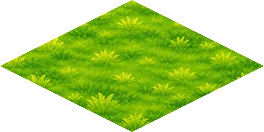
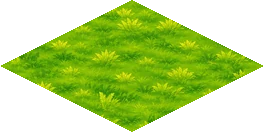
Кусты стоят по центру клетки, трава без швов
Кусты: опора считалась от самой широкой строки основания, а у новых кустов под газоном
земляной блок, и куст стоял ниже своей клетки примерно на 7 единиц. Теперь опора — центр
ромба, нижний угол которого — низ блока (18 картинок кустов, сами картинки не менялись).

Трава: tools/grass_tiles.py собирает из tile_grass.png и tile_grass_flowers.png четыре
бесшовные плитки с общей каймой у краёв (разрез по месту наименьшей разницы), цветы
наложены поверх травы основного цвета. Плитки травы больше не отзеркаливаются.

Claude-Session: https://claude.ai/code/session_011VhYmBhGwWRgUfHhRXyNhw

diff --git a/src/game/artSprites.js b/src/game/artSprites.js
@@ -103,8 +103,9 @@ export async function loadArt(onProgress) {
     },
     house: [null, A.house_1, A.house_2, A.house_3, A.house_4, A.house_5],
     well: [A.well_broken, A.well_fixed],
-    // варианты травы 0,1 — простая (55% и 25%), 2,3 — с цветами (по 10%)
-    grass: [A.tile_grass, flipped(A.tile_grass), A.tile_grass_flowers, flipped(A.tile_grass_flowers)],
+    // варианты травы 0,1 — простая (55% и 25%), 2,3 — с цветами (по 10%). Не отзеркаливать: плитки
+    // бесшовные (tools/grass_tiles.py), у зеркальной край другой — будет шов
+    grass: [A.tile_grass, A.tile_grass_2, A.tile_grass_flowers, A.tile_grass_flowers_2],
     path: [A.tile_path, flipped(A.tile_path)],
     // объёмные грядки: [сухая, политая]; рисуются поверх травы
     bed: [A.bed_dry, A.bed_wet],

diff --git a/tools/grass_tiles.py b/tools/grass_tiles.py
@@ -1,0 +1,172 @@
+# Бесшовные плитки травы из одной картинки-ромба (tile_grass.png) + цветы с tile_grass_flowers.png.
+#
+# Ромб клетки раскладываем в квадрат в осях клеток: u — вправо-вниз (соседняя клетка по gx),
+# v — влево-вниз (по gy). Сетка клеток в этих осях — обычная квадратная решётка, поэтому
+# «бесшовно» значит: квадрат периодичен по u и v. Периодичным его делаем, как бесшовные текстуры:
+# у края берём ту же картинку, сдвинутую на полквадрата, а границу между ними ведём по месту,
+# где картинки меньше всего отличаются (кривой разрез, не прямая линия), — так шва не видно.
+#
+# Все варианты (простая трава 2 шт., с цветами 2 шт.) получают одинаковую кайму у краёв и разную
+# середину, поэтому любые две плитки рядом стыкуются. Отзеркаливать плитки в игре нельзя: кайма
+# зеркальной плитки другая (поэтому второй вариант — отдельная картинка).
+import numpy as np
+from PIL import Image
+from scipy import ndimage
+
+N = 512        # сторона квадрата в осях клеток
+BAND = 0.22    # ширина полосы у края, в которой ищем разрез (доля стороны)
+SS = 4         # плитку считаем в SS раз крупнее и уменьшаем (сглаживание)
+
+
+def to_square(a, n=N):
+    """Ромб на всю картинку a (H×W×C) → квадрат n×n×C, индексы [u, v]."""
+    H, W = a.shape[:2]
+    t = (np.arange(n) + 0.5) / n
+    u, v = np.meshgrid(t, t, indexing='ij')
+    x = (0.5 + (u - v) / 2) * W - 0.5
+    y = (u + v) / 2 * H - 0.5
+    return np.stack([ndimage.map_coordinates(a[..., c], [y, x], order=3, mode='nearest')
+                     for c in range(a.shape[2])], -1)
+
+
+def to_diamond(sq, tw, th, cw, ch, ox, oy):
+    """Квадрат (периодичный) → картинка плитки tw×th пикселей. Клетка — ромб cw×ch пикселей,
+    её левый верхний угол описанного прямоугольника — (ox, oy) в пикселях картинки."""
+    n = sq.shape[0]
+    py, px = np.mgrid[0:th, 0:tw].astype(np.float64)
+    xc = (px + 0.5 - ox) / cw * 2 - 1    # -1..1 поперёк ромба
+    yc = (py + 0.5 - oy) / ch * 2        # 0..2 сверху вниз
+    u = (xc + yc) / 2
+    v = (yc - xc) / 2
+    return np.stack([ndimage.map_coordinates(sq[..., c], [u * n - 0.5, v * n - 0.5], order=3, mode='grid-wrap')
+                     for c in range(sq.shape[2])], -1)
+
+
+def _cut(err, lo, hi, fixed=None):
+    """Разрез у края u=0: для каждой строки v — граница c[v] в [lo, hi), соседние отличаются не
+    больше чем на 1, сумма err вдоль разреза минимальна. fixed — граница в первой и последней
+    строке (чтобы разрез сам был периодичен по v)."""
+    n = err.shape[1]
+    e = err[lo:hi].T  # [v, c]
+    k = hi - lo
+    cost = np.full((n, k), np.inf); back = np.zeros((n, k), np.int64)
+    if fixed is None: cost[0] = e[0]
+    else: cost[0, fixed - lo] = e[0, fixed - lo]
+    for j in range(1, n):
+        prev = cost[j - 1]
+        cand = np.stack([prev, np.r_[np.inf, prev[:-1]], np.r_[prev[1:], np.inf]])  # c, c-1, c+1
+        arg = cand.argmin(0)
+        cost[j] = cand[arg, np.arange(k)] + e[j]
+        back[j] = np.arange(k) + np.array([0, -1, 1])[arg]
+    c = np.empty(n, np.int64)
+    c[-1] = (fixed - lo) if fixed is not None else cost[-1].argmin()
+    for j in range(n - 1, 0, -1): c[j - 1] = back[j, c[j]]
+    return c + lo
+
+
+def _err(a, b):
+    d = (a - b) ** 2
+    return ndimage.uniform_filter(d.sum(-1), 3)
+
+
+def _outer_mask(base, inner, lo, hi, periodic):
+    """Маска «берём base» у всех четырёх краёв квадрата: по кривому разрезу в полосе [lo, hi)."""
+    n = base.shape[0]
+    m = np.zeros((n, n), bool)
+    fixed = (lo + hi) // 2 if periodic else None
+    idx = np.arange(n)
+    for flip_u in (False, True):
+        for tr in (False, True):
+            b, i = base, inner
+            if tr: b, i = b.transpose(1, 0, 2), i.transpose(1, 0, 2)
+            if flip_u: b, i = b[::-1], i[::-1]
+            c = _cut(_err(b, i), lo, hi, fixed)
+            mm = idx[:, None] < c[None, :]
+            if flip_u: mm = mm[::-1]
+            if tr: mm = mm.T
+            m |= mm
+    return m
+
+
+def _blend(outer, inner, m, sigma=1.5, wrap=True):
+    w = ndimage.gaussian_filter(m.astype(np.float64), sigma, mode='wrap' if wrap else 'nearest')[..., None]
+    return outer * w + inner * (1 - w)
+
+
+def make_periodic(t):
+    """Квадрат → периодичный по u и v (кайма — та же картинка, сдвинутая на полквадрата)."""
+    n = t.shape[0]
+    lo, hi = max(2, n // 40), int(n * BAND)
+    p, idx = t, np.arange(n)
+    for axis in (0, 1):
+        r = np.roll(p, n // 2, axis)
+        a, b = (p, r) if axis == 0 else (p.transpose(1, 0, 2), r.transpose(1, 0, 2))
+        c0 = _cut(_err(a, b), lo, hi, (lo + hi) // 2)
+        c1 = _cut(_err(a[::-1], b[::-1]), lo, hi, (lo + hi) // 2)
+        mm = (idx[:, None] < c0[None, :]) | (idx[::-1][:, None] < c1[None, :])
+        m = mm if axis == 0 else mm.T
+        p = _blend(r, p, m)
+    return p
+
+
+def flatten(t, sigma):
+    """Убрать крупные перепады яркости (свет на всю плитку): иначе на поле видна сетка."""
+    low = np.stack([ndimage.gaussian_filter(t[..., c], sigma, mode='reflect') for c in range(3)], -1)
+    return t - low + low.reshape(-1, 3).mean(0)
+
+
+def match_colors(src, ref, mask_src=None):
+    """Средний цвет и разброс src → как у ref (по каналам)."""
+    s = src[mask_src] if mask_src is not None else src.reshape(-1, 3)
+    r = ref.reshape(-1, 3)
+    return (src - s.mean(0)) / (s.std(0) + 1e-6) * r.std(0) + r.mean(0)
+
+
+def flower_layer(f, ref, margin):
+    """Цветы с картинки f (квадрат) как отдельный слой: (цвет, альфа). Только те, что целиком
+    внутри (дальше margin от краёв), — чтобы край плитки остался общим."""
+    rgb = f[..., :3]
+    R, G, B = rgb[..., 0], rgb[..., 1], rgb[..., 2]
+    petals = (B > 95) | ((R > G + 8) & (R > 150))
+    petals = ndimage.binary_opening(petals, iterations=1)
+    lab, k = ndimage.label(ndimage.binary_dilation(petals, iterations=6))
+    n = f.shape[0]
+    keep = np.zeros_like(petals)
+    for sl, i in zip(ndimage.find_objects(lab), range(1, k + 1)):
+        (u0, u1), (v0, v1) = (sl[0].start, sl[0].stop), (sl[1].start, sl[1].stop)
+        if min(u0, v0) > margin and max(u1, v1) < n - margin and (lab[sl] == i).sum() > 30:
+            keep |= lab == i
+    # цветок вместе с листиками вокруг (трава под ними перекрашена под основную)
+    alpha = ndimage.gaussian_filter((ndimage.binary_dilation(petals & keep, iterations=7)).astype(np.float64), 3)
+    grass = ~ndimage.binary_dilation(petals, iterations=8)
+    # трава и листья вокруг — под цвет основной травы, сами лепестки — как нарисованы
+    col = match_colors(rgb, ref, grass)
+    pm = ndimage.gaussian_filter(ndimage.binary_dilation(petals, iterations=2).astype(np.float64), 1)[..., None]
+    col = rgb * pm + col * (1 - pm)
+    return col, np.clip(alpha * 1.6, 0, 1)
+
+
+def build(grass, flowers):
+    """Ромбы травы и травы с цветами (RGB, без обводки) → 4 квадрата: трава, трава-2 (другая
+    середина), с цветами, с цветами-2. Кайма у краёв у всех одна и та же."""
+    t = flatten(to_square(grass), N / 6)
+    f = to_square(flowers)
+    p = make_periodic(t)
+    lo, hi = N // 20, int(N * 0.25)
+    inner = t.transpose(1, 0, 2)  # середина второго варианта — та же трава, отражённая
+    v1 = _blend(p, inner, _outer_mask(p, inner, lo, hi, False))
+    out = [p, v1]
+    margin = int(N * 0.07)
+    for base, fl in ((p, f), (v1, np.roll(f, (N // 2, N // 2), (0, 1)))):
+        col, al = flower_layer(fl, t, margin)
+        out.append(base * (1 - al[..., None]) + col * al[..., None])
+    return out
+
+
+def render(sq, tw, th, density):
+    """Квадрат → плитка tw×th мировых единиц (клетка 64×32 посередине, по краям запас на стык)."""
+    W, H = round(tw * density), round(th * density)
+    k = SS * density
+    d = to_diamond(np.clip(sq, 0, 255), W * SS, H * SS, 64 * k, 32 * k, (tw - 64) / 2 * k, (th - 32) / 2 * k)
+    img = Image.fromarray(np.clip(d, 0, 255).astype(np.uint8)).resize((W, H), Image.LANCZOS)
+    return np.array(img.convert('RGBA'))

diff --git a/tools/slice_art.py b/tools/slice_art.py
@@ -9,6 +9,7 @@ import json, os, sys
 import numpy as np
 from PIL import Image
 from scipy import ndimage
+import grass_tiles
 
 ROOT = os.path.join(os.path.dirname(os.path.abspath(__file__)), '..')
 SRC = os.path.join(ROOT, 'assets', 'source')
@@ -78,8 +79,10 @@ GRID_SHEETS = {
 # грядки: сухая и политая; вторая пара — с травяной каймой (не используется)
 BED_SHEETS = {'beds': [('bed_dry', 62), ('bed_wet', 62), None, None]}
 WATER_GAIN, WATER_LIFT = 1.15, (30, 45, 55)
-# плитки земли: каждая — своя картинка с одним ромбом
-TILES = ['tile_grass', 'tile_grass_flowers', 'tile_path']
+# плитки земли: каждая — своя картинка с одним ромбом. Трава собирается бесшовной из двух картинок
+# (tile_grass.png, tile_grass_flowers.png) в 4 варианта; отзеркаливать их в игре нельзя
+TILES = ['tile_path']
+GRASS_TILES = ['tile_grass', 'tile_grass_2', 'tile_grass_flowers', 'tile_grass_flowers_2']
 
 
 # Иконки интерфейса: листы на тёмном фоне со свечением (не прозрачные) — фон срезаем по контуру.
@@ -224,6 +227,35 @@ def save(img, name, w, h, ax, ay, man):
     man[name] = {'w': round(w, 2), 'h': round(h, 2), 'ax': round(ax, 2), 'ay': round(ay, 2)}
 
 
+def tile_src(name):
+    """Ромб плитки с картинки: чуть внутри контура (без тёмной обводки)."""
+    a = load(name)
+    boxes, lab = components(a, 1)
+    y0, y1, x0, x1, i = boxes[0]
+    inset = 0.045
+    w, h = x1 - x0, y1 - y0
+    return a[y0 + int(h * inset):y1 - int(h * inset), x0 + int(w * inset):x1 - int(w * inset)]
+
+
+def tiles(man):
+    """Плитки земли. Ромб чуть больше клетки (на 1 единицу), чтобы между клетками не было щелей."""
+    TW, TH = (TILE_W + 2) * DENSITY, (TILE_H + 1) * DENSITY
+    yy, xx = np.mgrid[0:TH, 0:TW]
+    diamond = (np.abs(xx + 0.5 - TW / 2) / (TW / 2) + np.abs(yy + 0.5 - TH / 2) / (TH / 2)) <= 1.0
+    out = {}
+    # трава — бесшовная (tools/grass_tiles.py): у всех вариантов одинаковая кайма, любые две рядом стыкуются
+    sq = grass_tiles.build(tile_src('tile_grass')[..., :3].astype(np.float64),
+                           tile_src('tile_grass_flowers')[..., :3].astype(np.float64))
+    for name, s in zip(GRASS_TILES, sq):
+        out[name] = grass_tiles.render(s, TILE_W + 2, TILE_H + 1, DENSITY)
+    for name in TILES:
+        out[name] = np.array(Image.fromarray(tile_src(name)).resize((TW, TH), Image.LANCZOS))
+    for name, img in out.items():
+        img[..., 3] = np.where(diamond, 255, 0)
+        save(Image.fromarray(img), name, TILE_W + 2, TILE_H + 1, (TILE_W + 2) / 2, (TILE_H + 1) / 2, man)
+        print(f'{name:14s} tile')
+
+
 def main(only=None):
     """only — нарезать только эти листы SHEETS и дописать их в существующий manifest.json"""
     os.makedirs(OUT, exist_ok=True)
@@ -247,6 +279,10 @@ def main(only=None):
                 # у деревьев «пятачок» травы — ромб, его самая широкая строка и есть центр
                 # (как у пней, иначе пень встаёт выше дерева)
                 if name.startswith('tree_'): by += bw / 4
+                # у кустов газон на земляном блоке, его самая широкая строка — не центр, а выше низа на
+                # высоту стенок: опора — центр ромба, нижний угол которого — низ блока
+                # (иначе куст стоит ниже своей клетки)
+                if name.startswith('bush_'): by = np.where((crop[..., 3] > 128).any(1))[0].max()
                 # у колодца самая широкая строка — середина круглой кладки; опора — от низа кладки
                 # под центром (иначе колодец «съезжает» на клетку перед собой)
                 if sheet == 'well':
@@ -265,6 +301,7 @@ def main(only=None):
     # Грядки: объёмный ромб (верх + бортик). Ширина — по краям картинки, центр ромба —
     # строка самой левой точки (левый угол верхней грани).
     if only:
+        if 'tiles' in only: tiles(man)
         with open(os.path.join(OUT, 'manifest.json'), 'w') as f:
             json.dump(man, f, indent=1)
         ic = [n for n in only if n in ICON_SHEETS]
@@ -289,21 +326,7 @@ def main(only=None):
             save(img, name, W, H, (left + right) / 2 * k, (cy + ry) / 2 * k, man)
             print(f'{name:14s} bed {x1-x0}x{y1-y0}px -> {W:.0f}x{H:.0f} u')
 
-    # Плитки земли: вырезаем ромб чуть внутри контура (без тёмной обводки)
-    TW, TH = (TILE_W + 2) * DENSITY, (TILE_H + 1) * DENSITY
-    yy, xx = np.mgrid[0:TH, 0:TW]
-    diamond = (np.abs(xx + 0.5 - TW / 2) / (TW / 2) + np.abs(yy + 0.5 - TH / 2) / (TH / 2)) <= 1.0
-    for name in TILES:
-        a = load(name)
-        boxes, lab = components(a, 1)
-        y0, y1, x0, x1, i = boxes[0]
-        inset = 0.045
-        w, h = x1 - x0, y1 - y0
-        crop = a[y0 + int(h * inset):y1 - int(h * inset), x0 + int(w * inset):x1 - int(w * inset)]
-        img = np.array(Image.fromarray(crop).resize((TW, TH), Image.LANCZOS))
-        img[..., 3] = np.where(diamond, 255, 0)
-        save(Image.fromarray(img), name, TILE_W + 2, TILE_H + 1, (TILE_W + 2) / 2, (TILE_H + 1) / 2, man)
-        print(f'{name:14s} tile')
+    tiles(man)
 
     for crop in CROPS:
         for st in range(4):
@@ -368,4 +391,5 @@ def main(only=None):
 
 if __name__ == '__main__':
     # python tools/slice_art.py [лист ...] — только эти листы деревьев/кустов, остальное не трогать
+    # python tools/slice_art.py tiles        — только плитки земли
     main(sys.argv[1:] or None)

diff --git a/assets/README.md b/assets/README.md
@@ -23,7 +23,7 @@ assets/map.json  стартовая карта (редактор карты)
 | камень / валун | `rock`, `rock_small` / `boulder`, `boulder_moss` | |
 | дикая высокая трава | `grass_tall_<n>` | `grass_tall_0` |
 | урожай на грядке | `crop_<культура>_<стадия 0–3>` | `crop_carrot_3` |
-| плитки земли | `tile_grass`, `tile_grass_flowers`, `tile_path` | |
+| плитки земли | `tile_grass`, `tile_grass_2`, `tile_grass_flowers`, `tile_grass_flowers_2`, `tile_path` | |
 | грядка | `bed_dry`, `bed_wet` | |
 | вода и пруд | `tex_water` (текстура), `pond_<что>` | `pond_lily` |
 | дом, колодец | `house_<уровень>`, `well_broken`, `well_fixed` | |
@@ -43,6 +43,13 @@ blueberry, raspberry, rosehip, hydrangea, lavender, rose), `<культура>` 
 Деревья, камни, кусты, каждая стадия урожая (`crop_<культура>_<стадия>.png`) и плитки земли — по одному
 объекту на картинку: на общих листах «пиксели» стиля выходили крупными и в игре было видно ступеньки.
 
+Трава бесшовная: `tools/grass_tiles.py` собирает из `tile_grass.png` и `tile_grass_flowers.png` четыре
+плитки с одинаковой каймой у краёв (любые две рядом стыкуются), цветы с второй картинки накладываются
+поверх. Поэтому плитки травы в игре не отзеркаливаются: у зеркальной другой край, будет шов.
+
+Опора кустов — центр ромба, нижний угол которого — низ земляного блока под кустом (иначе куст стоит
+ниже своей клетки).
+
 ## Как нарезать
 
 Нужен Python с numpy, Pillow и scipy (`pip install numpy pillow scipy`).
@@ -52,6 +59,7 @@ python tools/slice_art.py                   # всё: картинки, manifest
 python tools/slice_fog.py                   # облака тумана (дописывает manifest.json)
 
 python tools/slice_art.py tree_apple_bare   # только эти листы (остальное в манифесте не трогается)
+python tools/slice_art.py tiles             # только плитки земли
 python tools/cut_grass_base.py assets/source/grass_tall_raw.png assets/source/grass_tall.png
 ```
 
